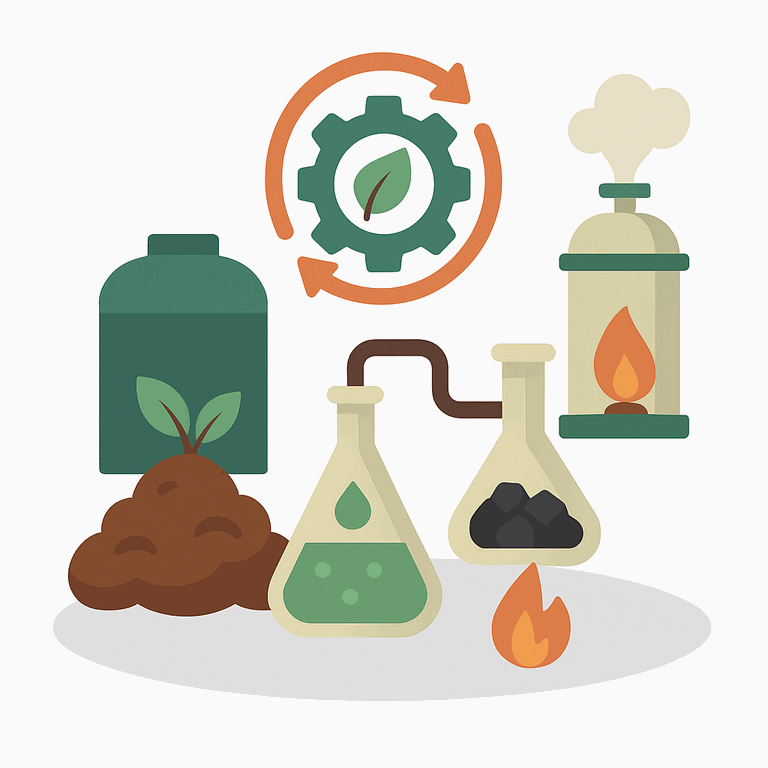
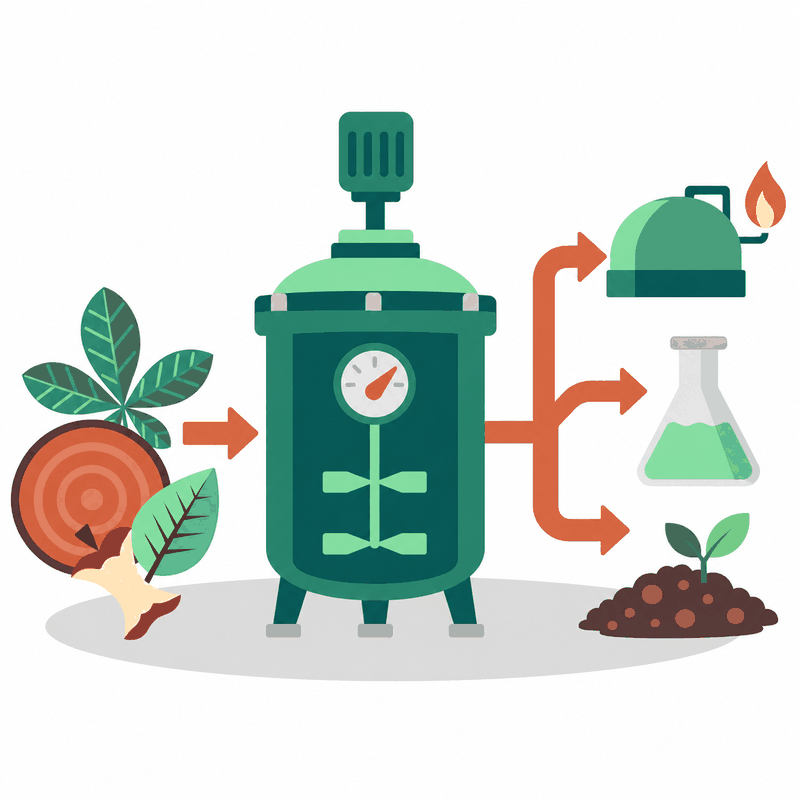
feat(processes): replace home cover card with new illustration
Generated with [Devin](https://devin.ai)

diff --git a/brit/templates/home.html b/brit/templates/home.html
@@ -219,7 +219,7 @@
                href="{% url 'processes:process-list' %}">
               <img class="w-100 m-0"
                    src="{% static 'img/processes_cover_card.png' %}"
-                   alt="Processes Module Cover Image">
+                   alt="Organic residues fed into a reactor that turns them into biogas, compost and other products">
             </a>
           </div>
           <div class="card-body">
